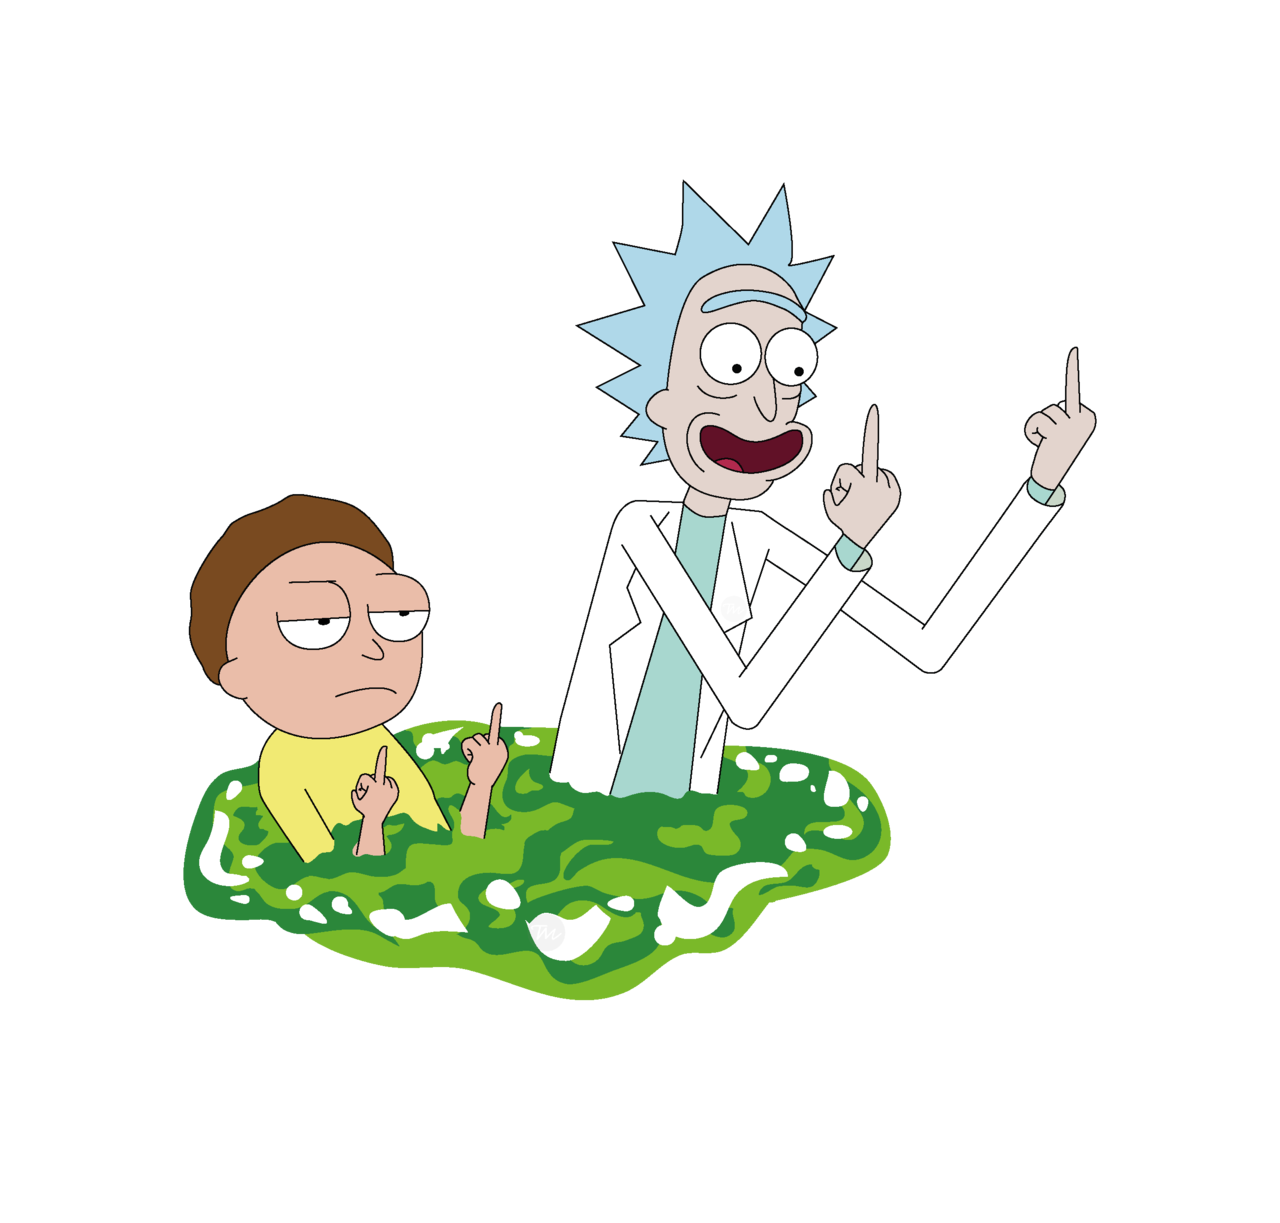
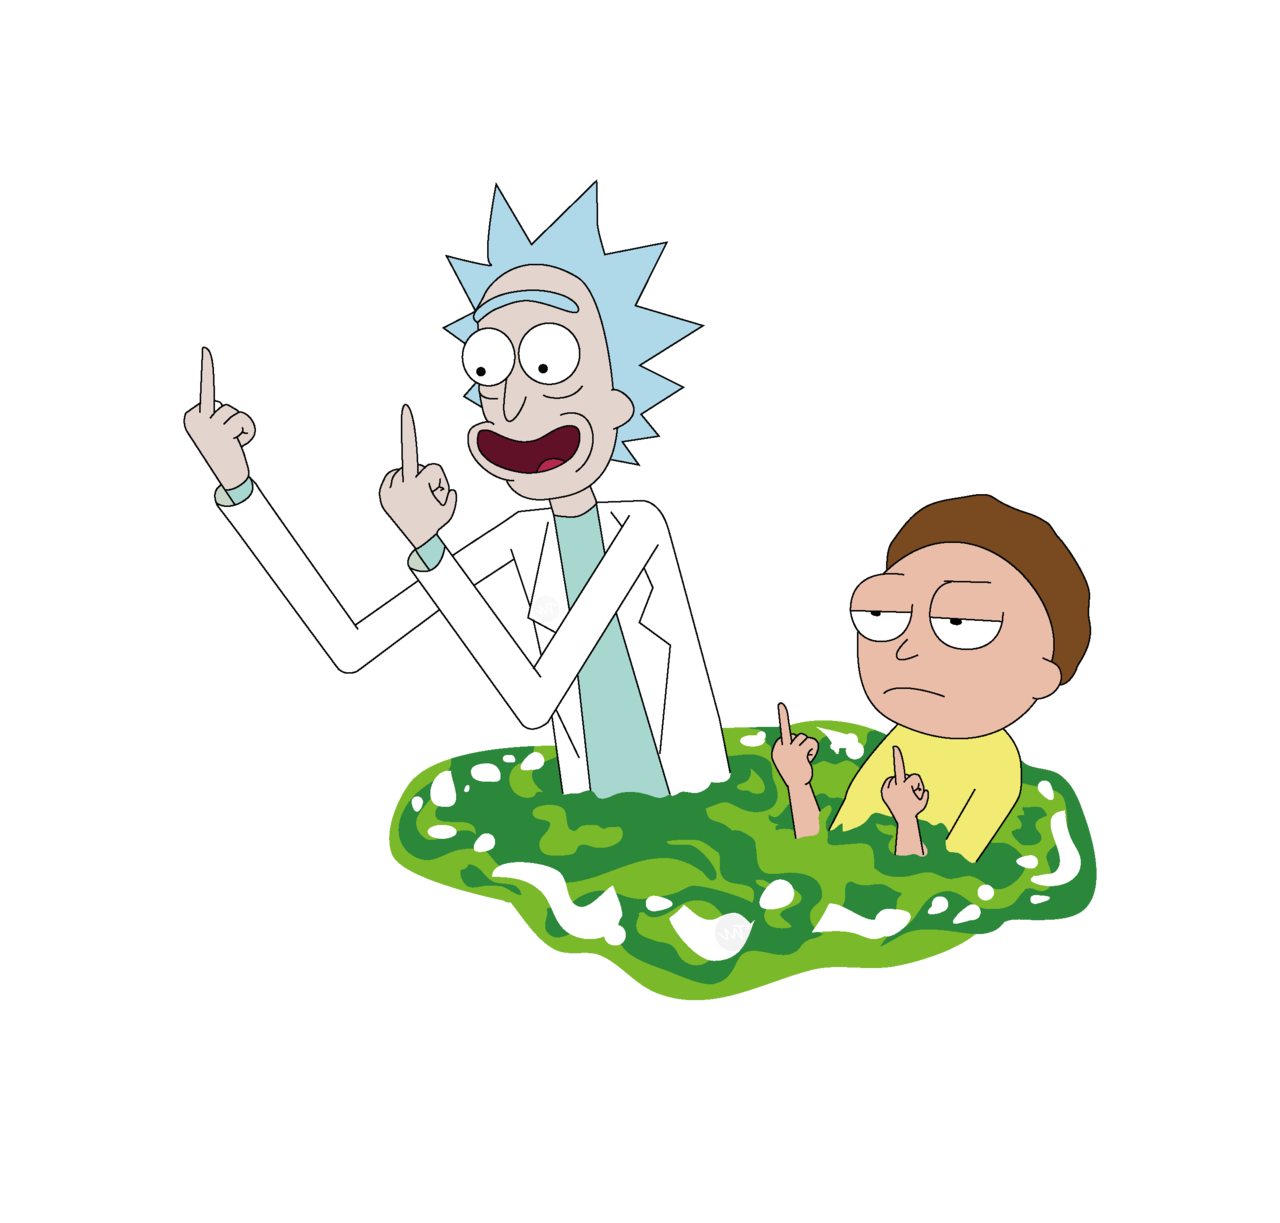
contatos inicio

Changed region(s): [[0.125, 0.1554, 0.875, 0.8389]]

diff --git a/pages/contatos_inicio.html b/pages/contatos_inicio.html
@@ -56,17 +56,19 @@
     </header>
       <main class="conteudo__pegadinha">
       <h1>Nossos contatos estão em outro universo entre no portal:</h1>
-      <img
-        src="../assets/images/imagem_contatosdedos.png"
-        alt="image_rickandmorty"
-      />
+     
       <a href="contatos_fim.html">
         <img
           src="../assets/images/imagem_contatos_portal.gif"
           alt="gif_rickandmorty"
         />
-      </a>
+      </a> 
+      
     </main>
+    <img class="img1"
+        src="../assets/images/imagem_contatosdedos.png"
+        alt="image_rickandmorty"
+      />
        <footer class="footer">
       <div class="footer__icones">
         <!-- Ali Saad -->

diff --git a/css/contatos_stylesheet.css b/css/contatos_stylesheet.css
@@ -75,15 +75,30 @@ a {
 }
 
 .conteudo__pegadinha {
-  margin-left: 25%;
+  margin-top: 2%;
+  margin-left: 1%;
+  margin-right: 30%;
+  margin-bottom: 3%;
 }
 
 .conteudo__pegadinha h1 {
-  margin-top: 2%;
-  font-family: "irishgrover";
+  font-family: "OCRA";
+  font-style: italic;
+  font-size: 90PX;
+  padding-top: -20px;
+  margin-right: 20%;
+  
 }
 
 .conteudo__pegadinha img {
-  margin: 5% 0% 10% 2%;
-  width: 30%;
+   width: 55%;
+   margin-left: 75%;
+   margin-top: -40%;
+}
+.img1 {
+  scale: 0.18;
+  margin-top: -47%;
+  margin-bottom: -53%;
+  margin-left:50%;
+
 }
